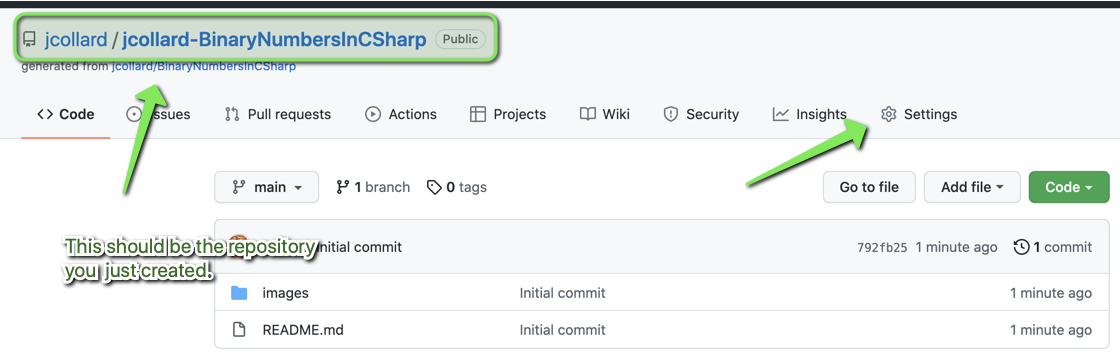
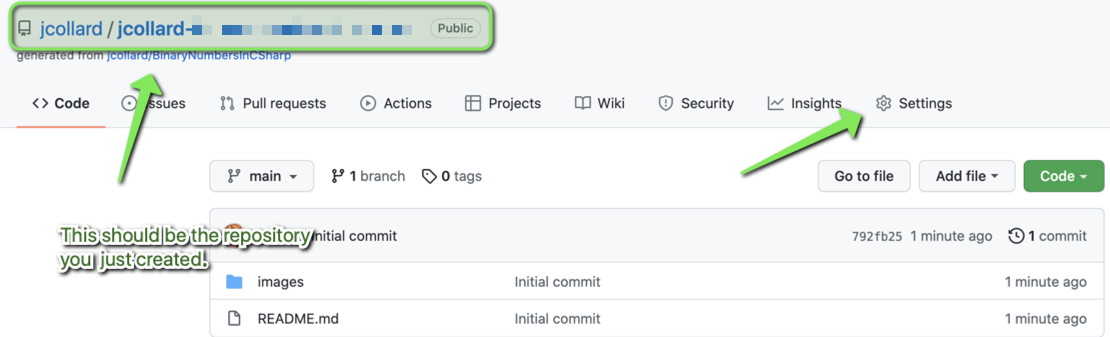
chore: Update images to not reference any specific project.

diff --git a/Setup.md b/Setup.md
@@ -25,9 +25,9 @@ work.
 
 ![Settings](images/settings.png)
 
-2. On the settings page, select the `Manage Access` option on the left.
+2. On the settings page, select the `Collaborators` option on the left.
 
-![Manage Access](images/manage_access.png)
+![Manage Access](images/collaborators.png)
 
 3. On the manage access page, select `Add people`
 
@@ -43,7 +43,7 @@ branch is typically reserved for completed work on projects. A secondary branch
 called `develop` is typically created where you can work without fear of
 "polluting" the `main` branch.
 
-1. Using GitHub Desktop, Clone your new repository.
+1. If you have not already done so, use GitHub Desktop, Clone your new repository.
 2. Open your project in Visual Studio Code
 3. Use the command palette (Command + Shift + P) to run `Git: Create Branch`
 
@@ -116,7 +116,7 @@ this project.
 
 1. Commit your work. 
    * Your commit message should be something like `chore: Initialize project`
-2. Push your work
+2. Push your work.
 3. In your web browser, visit your repository
 4. Select the `Pull Request` tab
 
@@ -143,3 +143,6 @@ this project.
 9. Finally, click `Create Pull Request`
 
 ![Create PR](images/final-create-pr.png)
+
+You should now be able to see the projects that were created when you initialized your project by running `dotnet new console`. Do **NOT** click the `Merge Pull Request` button. If you do so, it will update your main branch and you will no longer be able to see the difference.
+
